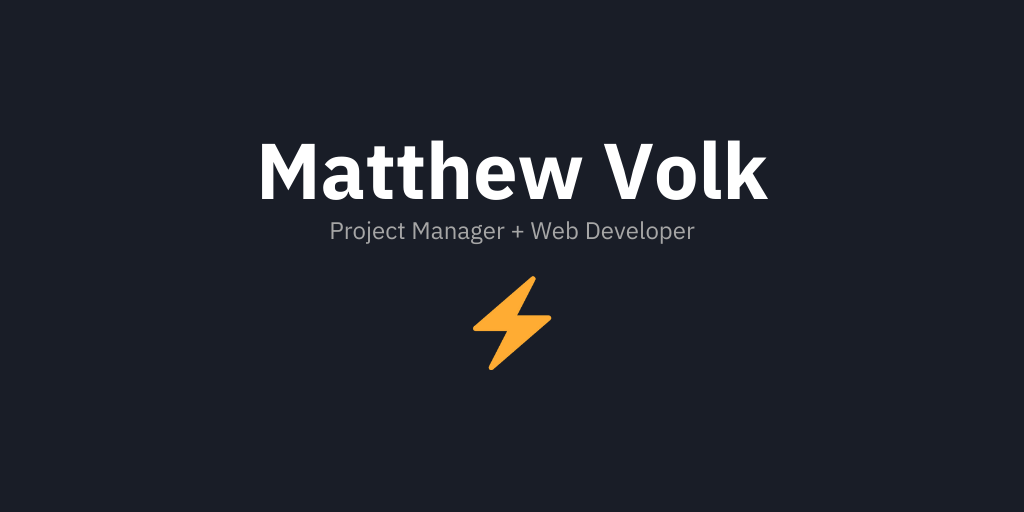
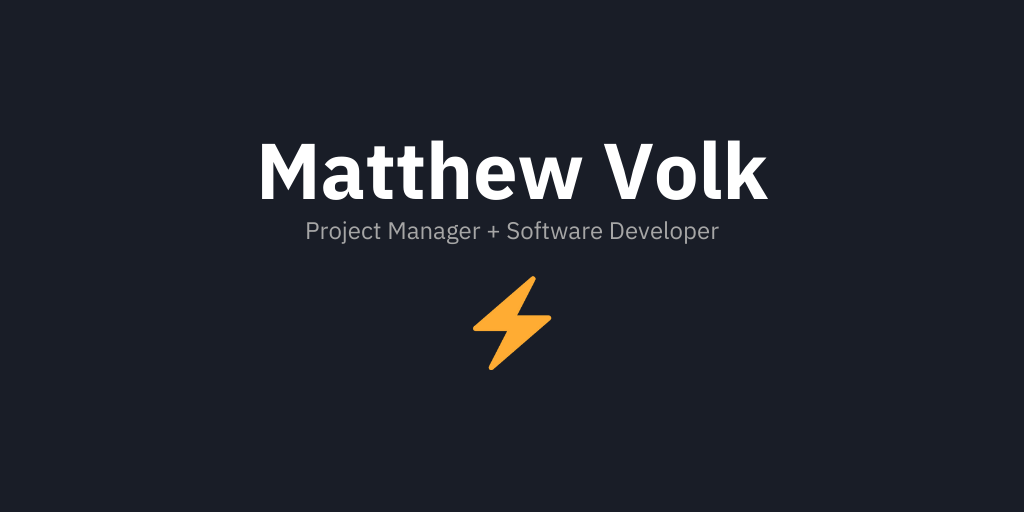
add og:image

Changed region(s): [[0.2812, 0.4375, 0.7188, 0.4688]]

diff --git a/gatsby-config.js b/gatsby-config.js
@@ -7,9 +7,9 @@ module.exports = {
     // Used for the title template on pages other than the index site
     siteTitle: `Matthew Volk`,
     // Default title of the page
-    siteTitleAlt: `Project Manager and Web Developer - Matthew Volk`,
+    siteTitleAlt: `Project Manager and Software Developer - Matthew Volk`,
     // Can be used for e.g. JSONLD
-    siteHeadline: `Project Manager and Web Developer - Matthew Volk`,
+    siteHeadline: `Project Manager and Software Developer - Matthew Volk`,
     // Will be used to generate absolute URLs for og:image etc.
     siteUrl: `https://volk.dev`,
     // Used for SEO
@@ -17,7 +17,7 @@ module.exports = {
     // Will be set on the <html /> tag
     siteLanguage: `en`,
     // Used for og:image and must be placed inside the `static` folder
-    // siteImage: `/banner.jpg`,
+    siteImage: `/banner.jpg`,
     // Twitter Handle
     author: `@mattjvolk`,
     // Links displayed in the header on the right side
